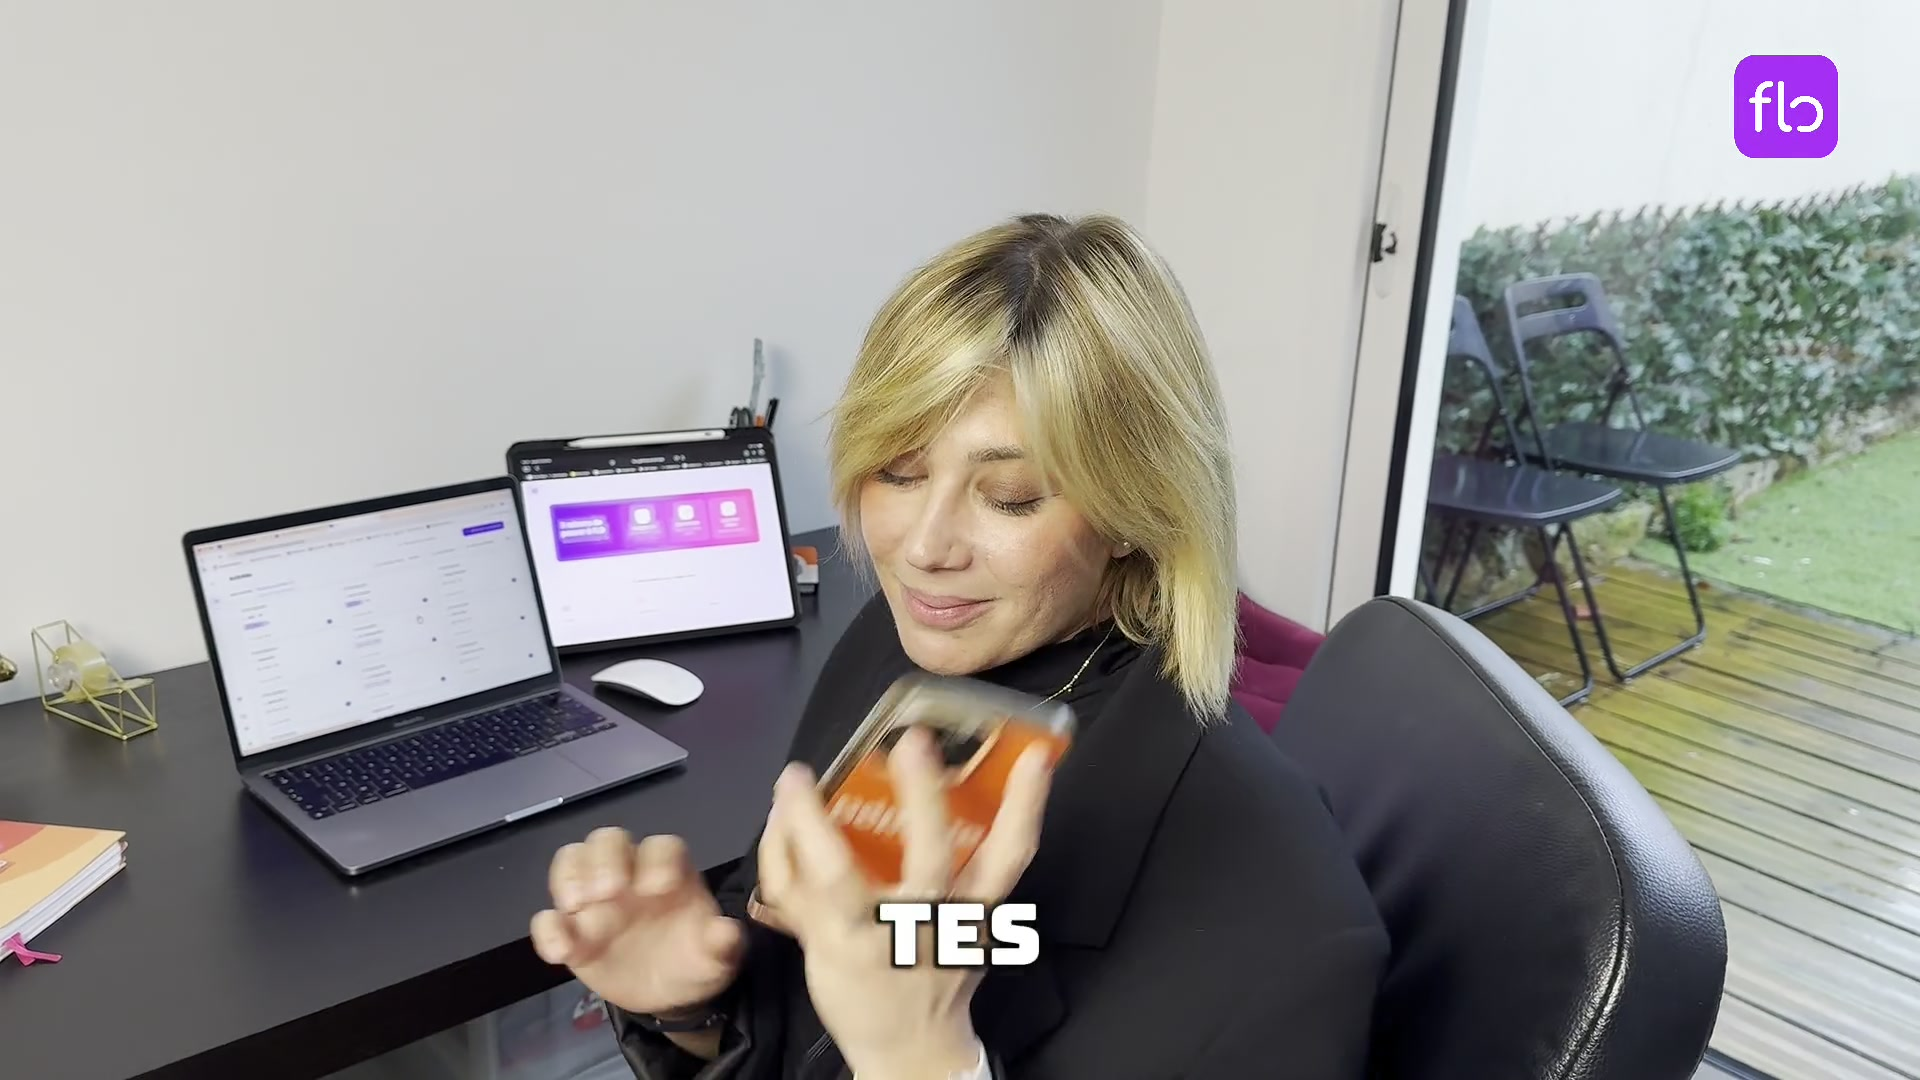
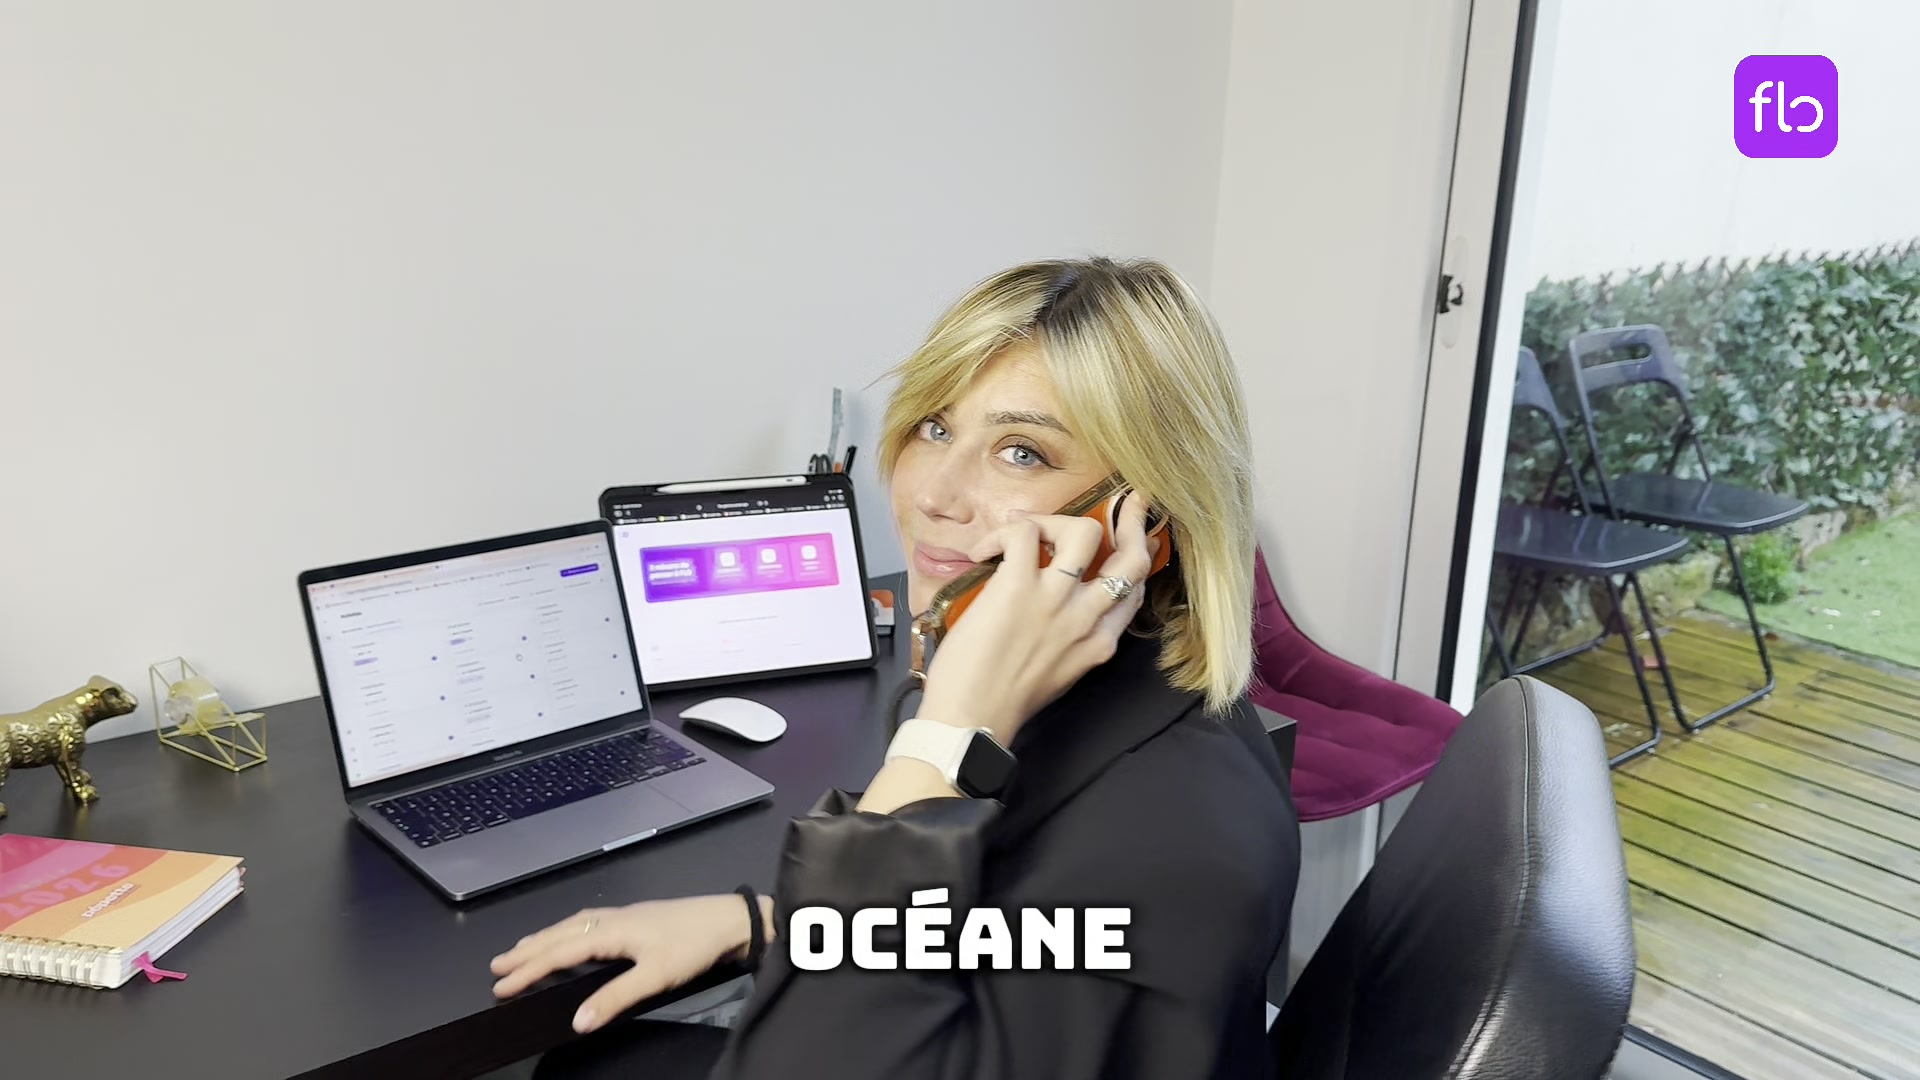
Poster vidéo header — screenshot à 1.2s de video_1.mov

diff --git a/index.html b/index.html
@@ -463,7 +463,7 @@
                         </div>
                         <!-- Vid&eacute;o -->
                         <div class="video-wrapper" id="hero-video-wrapper" onclick="playHeroVideo(event)" style="border-radius: 0;">
-                            <video id="hero-video" preload="metadata" playsinline muted style="background: #1a0033;">
+                            <video id="hero-video" preload="metadata" poster="assets/images/video-poster.jpg" playsinline muted style="background: #1a0033;">
                                 <source src="assets/video/video_1.mov" type="video/quicktime">
                                 <source src="assets/video/video_1.mov" type="video/mp4">
                             </video>
@@ -875,7 +875,7 @@
     <!-- ============================================ -->
     <section class="mobile-only" style="background-color: #E5D5FF; padding: 40px 16px;">
         <div class="video-wrapper" onclick="playMobileVideo(event)" id="mobile-video-wrapper" style="border-radius: 16px;">
-            <video id="mobile-video" preload="metadata" playsinline muted>
+            <video id="mobile-video" preload="metadata" poster="assets/images/video-poster.jpg" playsinline muted>
                 <source src="assets/video/video_1.mov" type="video/quicktime">
                 <source src="assets/video/video_1.mov" type="video/mp4">
             </video>
